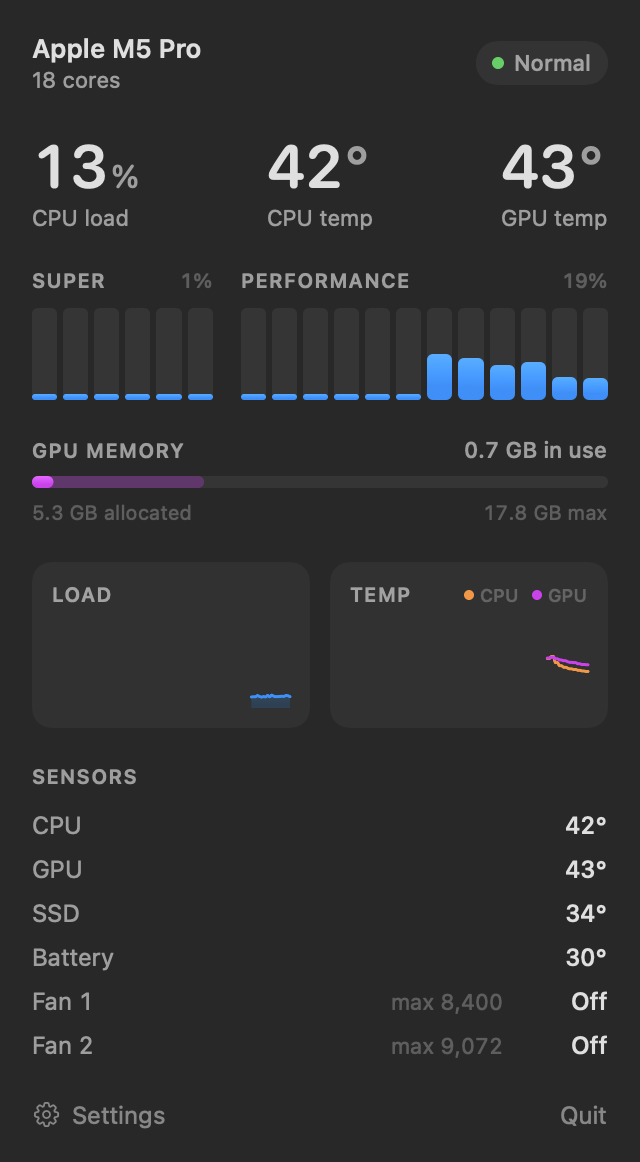
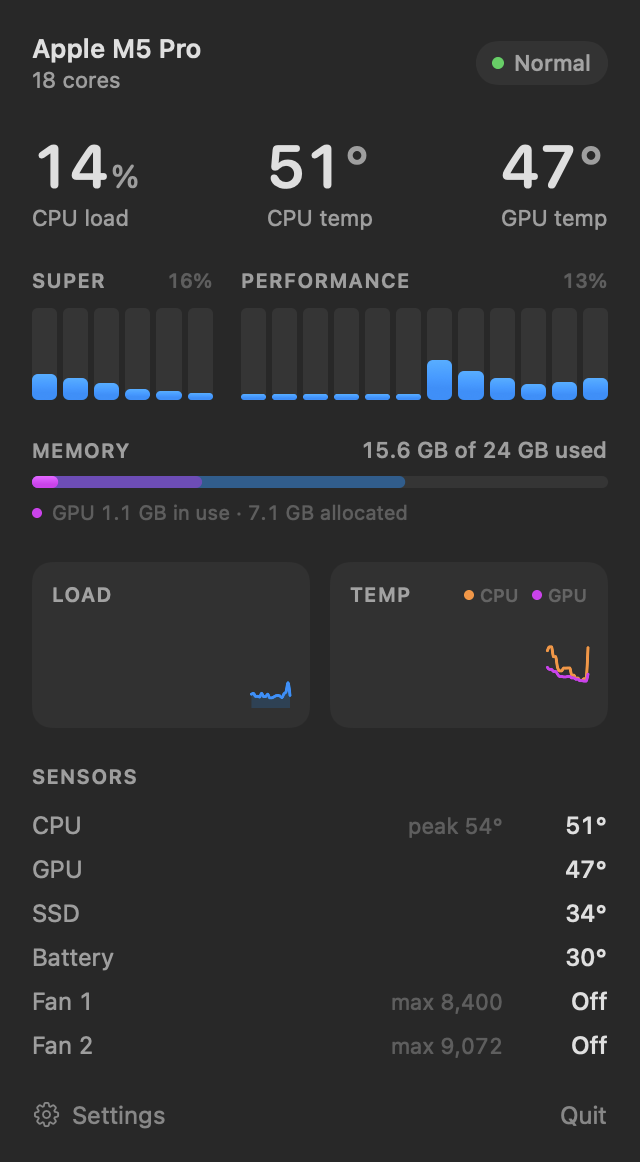
Show unified memory instead of only the GPU's share
The GPU memory bar becomes a Memory bar: total memory in use out of the
Mac's RAM, counted like Activity Monitor's Memory Used (app memory +
wired + compressed), with the GPU's share drawn in purple inside it.

diff --git a/Sources/Cores/PanelView.swift b/Sources/Cores/PanelView.swift
@@ -47,7 +47,7 @@ struct PanelView: View {
             HeaderView(monitor: monitor)
             StatsRow(monitor: monitor)
             CoreBarsView(clusters: monitor.panel.clusters, width: Self.width - Self.padding * 2)
-            GPUMemoryView(memory: monitor.panel.gpuMemory)
+            MemoryView(memory: monitor.panel.memory)
             HStack(spacing: 10) {
                 HistoryCard(title: "Load", series: [.init(name: "CPU", samples: monitor.panel.loadHistory, color: .accentColor)],
                             domain: 0...100, filled: true)
@@ -275,22 +275,23 @@ private struct CoreBar: View {
     }
 }
 
-// MARK: - GPU memory
+// MARK: - Memory
 
-/// Apple Silicon has no separate VRAM, so this shows the GPU's share of the unified memory:
-/// a solid bar for what it's using, a lighter bar for what it's holding, out of what it's allowed.
-struct GPUMemoryView: View {
-    let memory: GPUMemoryReading?
+/// Unified memory: one pool shared by the CPU and GPU. The bar is total memory in use out of the
+/// Mac's RAM, with the GPU's share drawn in purple from the left (solid for what it's actively
+/// using, lighter for what it has set aside).
+struct MemoryView: View {
+    let memory: MemoryReading?
 
     var body: some View {
         VStack(alignment: .leading, spacing: 6) {
             HStack(alignment: .firstTextBaseline) {
-                Text("GPU MEMORY")
+                Text("MEMORY")
                     .font(.system(size: 10, weight: .semibold))
                     .kerning(0.6)
                     .foregroundStyle(.secondary)
                 Spacer()
-                Text(memory.map { "\(Self.gigabytes($0.inUse)) in use" } ?? "–")
+                Text(memory.map { "\(Self.gigabytes($0.used)) of \(Self.wholeGigabytes($0.total)) used" } ?? "–")
                     .font(.system(size: 11, weight: .medium))
                     .foregroundStyle(.secondary)
             }
@@ -298,27 +299,36 @@ struct GPUMemoryView: View {
                 ZStack(alignment: .leading) {
                     RoundedRectangle(cornerRadius: 3, style: .continuous)
                         .fill(.primary.opacity(0.07))
-                    bar(for: memory?.allocated, width: geo.size.width)
-                        .fill(Color.purple.opacity(0.3))
-                    bar(for: memory?.inUse, width: geo.size.width)
+                    bar(for: memory?.used, width: geo.size.width)
+                        .fill(Color.accentColor.opacity(0.45))
+                    bar(for: memory?.gpu.map { min($0.allocated, memory?.used ?? 0) }, width: geo.size.width)
+                        .fill(Color.purple.opacity(0.45))
+                    bar(for: memory?.gpu?.inUse, width: geo.size.width)
                         .fill(Color.purple.gradient)
                 }
             }
             .frame(height: 6)
-            HStack {
-                Text(memory.map { "\(Self.gigabytes($0.allocated)) allocated" } ?? "–")
-                Spacer()
-                Text(memory?.limit.map { "\(Self.gigabytes($0)) max" } ?? "–")
+            HStack(spacing: 5) {
+                Circle().fill(Color.purple).frame(width: 5, height: 5)
+                Text(memory?.gpu.map { "GPU \(Self.gigabytes($0.inUse)) in use · \(Self.gigabytes($0.allocated)) allocated" } ?? "GPU –")
             }
             .font(.system(size: 10))
             .foregroundStyle(.tertiary)
         }
         .monospacedDigit()
-        .help("The GPU shares the Mac's memory. In use: what it's actively using. Allocated: what it's holding, including caches it can give back. Max: the most macOS lets it use.")
+        .help(helpText)
+    }
+
+    private var helpText: String {
+        var text = "Apple silicon has one pool of memory shared by the CPU and GPU. The bar shows how much is in use "
+            + "(counted like Activity Monitor's Memory Used), with the GPU's share in purple: solid for what it's "
+            + "actively using, lighter for what it has set aside."
+        if let limit = memory?.gpu?.limit { text += " The GPU can use up to \(Self.gigabytes(limit))." }
+        return text
     }
 
     private func bar(for bytes: UInt64?, width: CGFloat) -> some Shape {
-        let total = Double(memory?.limit ?? memory?.allocated ?? 0)
+        let total = Double(memory?.total ?? 0)
         let fraction = total > 0 ? min(Double(bytes ?? 0) / total, 1) : 0
         let length = fraction > 0 ? max(4, width * fraction) : 0
         return RoundedRectangle(cornerRadius: 3, style: .continuous).size(width: length, height: 6)
@@ -326,6 +336,10 @@ struct GPUMemoryView: View {
 
     static func gigabytes(_ bytes: UInt64) -> String {
         String(format: "%.1f GB", Double(bytes) / 1_073_741_824)
+    }
+
+    static func wholeGigabytes(_ bytes: UInt64) -> String {
+        "\(Int((Double(bytes) / 1_073_741_824).rounded())) GB"
     }
 }
 

diff --git a/Sources/Cores/SystemMonitor.swift b/Sources/Cores/SystemMonitor.swift
@@ -6,7 +6,7 @@ import os
 ///
 /// While the panel is open it samples every second and reads everything. While it's closed
 /// only the menu bar readout is visible, so it samples every 3 seconds at background priority,
-/// skips the readings only the panel shows (fans, GPU memory, SSD, battery), and doesn't touch the
+/// skips the readings only the panel shows (fans, memory, SSD, battery), and doesn't touch the
 /// panel's views at all. The menu bar is only redrawn when what it shows actually changes.
 @MainActor @Observable
 final class SystemMonitor {
@@ -33,7 +33,7 @@ final class SystemMonitor {
         var cpuTempHistory: [Sample] = []
         var gpuTempHistory: [Sample] = []
         var thermalState: ProcessInfo.ThermalState = .nominal
-        var gpuMemory: GPUMemoryReading?
+        var memory: MemoryReading?
     }
 
     /// Exactly what the menu bar readout draws, rounded the way it's displayed, so two
@@ -161,7 +161,7 @@ final class SystemMonitor {
             data.sensors.battery = hid.battery
         }
         if data.sensors.cpu == nil { data.sensors.cpu = data.sensors.soc } // no SMC: fall back to the SoC die sensors
-        if let gpuMemory = reading.gpuMemory { data.gpuMemory = gpuMemory }
+        if let memory = reading.memory { data.memory = memory }
 
         if let cpu = data.sensors.cpu { Self.append(cpu.average, at: reading.time, to: &data.cpuTempHistory) }
         if let gpu = data.sensors.gpu { Self.append(gpu.average, at: reading.time, to: &data.gpuTempHistory) }
@@ -191,13 +191,13 @@ private final class Sampler: @unchecked Sendable {
         var gpu: TempReading?
         var fans: [FanReading]?
         var hid: (soc: TempReading?, ssd: TempReading?, battery: TempReading?)?
-        var gpuMemory: GPUMemoryReading?
+        var memory: MemoryReading?
     }
 
     let queue = DispatchQueue(label: "Cores.sampler") // priority is set per read, see SystemMonitor.tick()
     let cpu = CPUSampler()
     private let sensors = SensorSampler()
-    private let gpuMemory = GPUMemorySampler()
+    private let memory = MemorySampler()
     private var lastHIDRead = Date.distantPast
 
     /// `detail` adds the readings only the open panel shows.
@@ -207,7 +207,7 @@ private final class Sampler: @unchecked Sendable {
         var reading = Reading(time: now, loads: cpu.sample(), cpu: temps.cpu, gpu: temps.gpu)
         if detail {
             reading.fans = sensors.sampleFans()
-            reading.gpuMemory = gpuMemory.sample()
+            reading.memory = memory.sample()
         }
         // SSD and battery change slowly: every 5 s while open.
         // Without SMC CPU sensors they stand in for CPU temperature, so then they're read every time.

diff --git a/Sources/Cores/MemorySampler.swift b/Sources/Cores/MemorySampler.swift
@@ -1,0 +1,38 @@
+import Darwin
+import Foundation
+
+/// The Mac's unified memory: how much is in use overall, and the GPU's share of it.
+struct MemoryReading: Sendable, Equatable {
+    var used: UInt64   // bytes, counted the way Activity Monitor's "Memory Used" is
+    var total: UInt64  // physical memory
+    var gpu: GPUMemoryReading?
+}
+
+final class MemorySampler {
+    private let host = mach_host_self()
+    private let total = ProcessInfo.processInfo.physicalMemory
+    private let pageSize: UInt64
+    private let gpu = GPUMemorySampler()
+
+    init() {
+        var size: vm_size_t = 0
+        pageSize = host_page_size(host, &size) == KERN_SUCCESS ? UInt64(size) : UInt64(getpagesize())
+    }
+
+    /// App memory (anonymous pages that can't simply be dropped) + wired + compressed,
+    /// which is how Activity Monitor arrives at "Memory Used".
+    func sample() -> MemoryReading? {
+        var stats = vm_statistics64()
+        var count = mach_msg_type_number_t(MemoryLayout<vm_statistics64>.stride / MemoryLayout<integer_t>.stride)
+        let result = withUnsafeMutablePointer(to: &stats) {
+            $0.withMemoryRebound(to: integer_t.self, capacity: Int(count)) {
+                host_statistics64(host, HOST_VM_INFO64, $0, &count)
+            }
+        }
+        guard result == KERN_SUCCESS else { return nil }
+        let anonymous = UInt64(stats.internal_page_count)
+        let appPages = anonymous - min(UInt64(stats.purgeable_count), anonymous)
+        let usedPages = appPages + UInt64(stats.wire_count) + UInt64(stats.compressor_page_count)
+        return MemoryReading(used: min(usedPages * pageSize, total), total: total, gpu: gpu.sample())
+    }
+}

diff --git a/Sources/Cores/Tools.swift b/Sources/Cores/Tools.swift
@@ -24,8 +24,11 @@ enum Tools {
         for fan in s.fans {
             print("  Fan \(fan.id + 1): \(Int(fan.rpm)) rpm" + (fan.maxRPM.map { " (max \(Int($0)))" } ?? ""))
         }
-        if let memory = monitor.panel.gpuMemory {
-            print("  GPU memory: \(GPUMemoryView.gigabytes(memory.inUse)) in use, \(GPUMemoryView.gigabytes(memory.allocated)) allocated, max \(memory.limit.map(GPUMemoryView.gigabytes) ?? "?")")
+        if let memory = monitor.panel.memory {
+            print("  Memory: \(MemoryView.gigabytes(memory.used)) of \(MemoryView.wholeGigabytes(memory.total)) used")
+            if let gpu = memory.gpu {
+                print("  GPU share: \(MemoryView.gigabytes(gpu.inUse)) in use, \(MemoryView.gigabytes(gpu.allocated)) allocated, max \(gpu.limit.map(MemoryView.gigabytes) ?? "?")")
+            }
         }
         print("  Thermal state: \(monitor.panel.thermalState.rawValue)")
 

diff --git a/README.md b/README.md
@@ -5,7 +5,7 @@ A clean, lightweight menu bar monitor for Macs with Apple silicon.
 <p align="center">
   <picture>
     <source media="(prefers-color-scheme: dark)" srcset="docs/panel-dark.png">
-    <img src="docs/panel-light.png" width="320" alt="The Cores dropdown: CPU load, CPU and GPU temperature, per-core bars, GPU memory, one-minute history, and SSD, battery and fan readings">
+    <img src="docs/panel-light.png" width="320" alt="The Cores dropdown: CPU load, CPU and GPU temperature, per-core bars, memory use with the GPU's share, one-minute history, and SSD, battery and fan readings">
   </picture>
 </p>
 
@@ -13,7 +13,7 @@ Cores shows your CPU load and temperature in the menu bar. Click it to see:
 
 - **Every core at a glance**, grouped by core type
 - **CPU and GPU temperature**, with the last minute of history
-- **GPU memory** in use
+- **Memory**: how much of your unified memory is in use, and the GPU's share of it
 - **SSD and battery temperature** and **fan speeds**
 - **Thermal status**: whether macOS considers your Mac warm or hot
 
